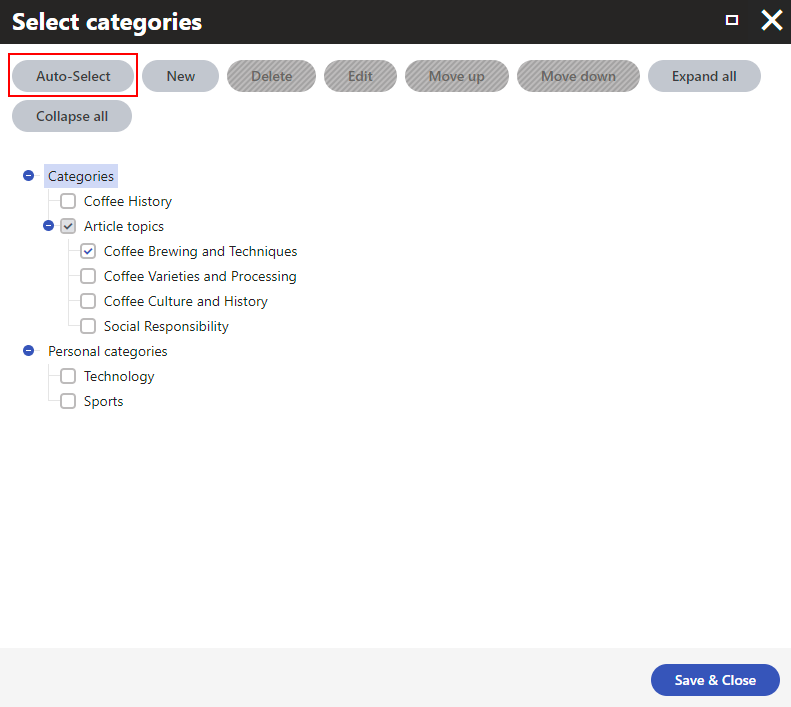
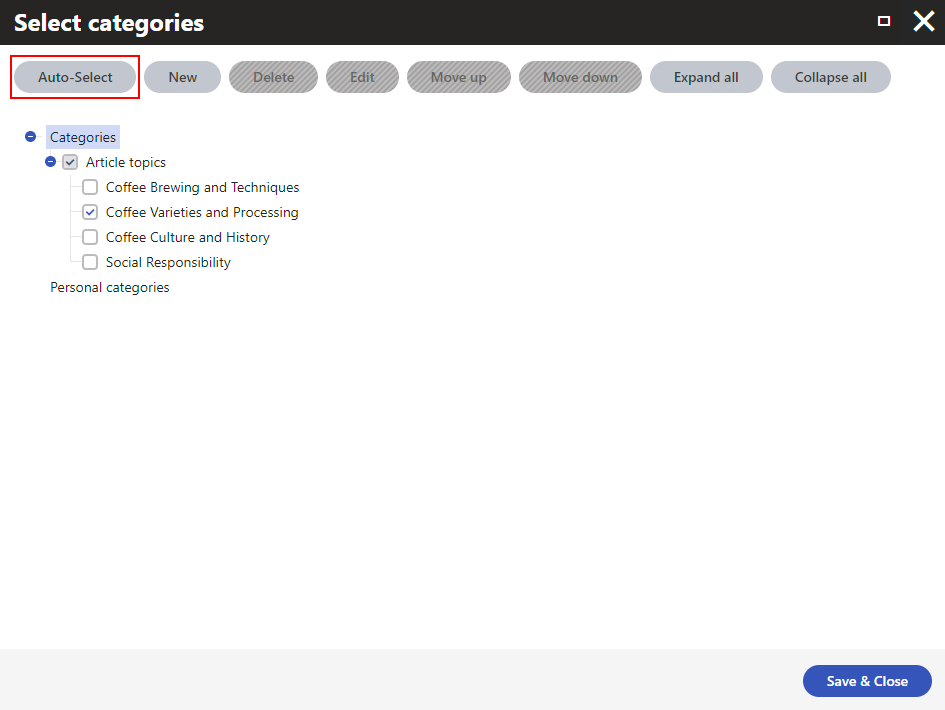
Changes addressing TW review.

Changed region(s): [[0.0, 0.0, 1.0, 0.5912], [0.8192, 0.9335, 1.0, 0.9958]]

diff --git a/README.md b/README.md
@@ -6,9 +6,9 @@ This custom module allows Xperience users to [automatically select](https://docs
 ## Installation
 
 1. Install the [Kentico.Xperience.OpenAI.Azure](https://www.nuget.org/packages/Kentico.Xperience.OpenAI.Azure) NuGet package in the administration project.
-2. Log into your [Azure portal](https://portal.azure.com/).
+2. Sign in to your [Azure portal](https://portal.azure.com/).
 3. Create and configure an [Azure OpenAI resource](https://learn.microsoft.com/en-us/azure/ai-services/openai/how-to/create-resource?pivots=web-portal).
-4. [Deploy a model](https://learn.microsoft.com/en-us/azure/ai-services/openai/how-to/create-resource?pivots=web-portal#deploy-a-model)
+4. [Deploy a model](https://learn.microsoft.com/en-us/azure/ai-services/openai/how-to/create-resource?pivots=web-portal#deploy-a-model).
 5. In Xperience, go to **Settings -> Content -> Azure OpenAI** and configure the settings:
     - General:
         - **Azure OpenAI API endpoint:** – value of the **Endpoint** field from **Resource Management -> Keys and Endpoints** of your Azure OpenAI resource in Azure portal.
@@ -17,15 +17,17 @@ This custom module allows Xperience users to [automatically select](https://docs
         - Select the **Enable content categorization** option.
         - **Deployment name** – the **Deployment name** you chose when deploying the model. Can be also found in **Azure OpenAI Studio -> Management -> Deployments**.
 
+    ![Azure OpenAI settings](images/azure_openai_settings.png)
+
 ## Automatic selection of categories
 
-After you [set up](#installation) the integration, next time you will be assigning a page into categories you can simply click the **Auto-Select** button and the best fitting categories based on the page's content will be automatically selected.
-
-![Auto-select categories](images/auto_select.png)
+After you [set up](#installation) the integration, next time you assign a page into categories you can simply click the **Auto-Select** button and the best fitting categories based on the page's content get automatically selected.
 
 **Important notes:**
-- The automatic selection overwrites your previously selected categories.
+- When you already have some categories selected, the automatic selection may not contain the originally selected ones. If this happens, you can manually add the desired categories on top of the automatic selection.
 - The page you are assigning into categories must have at least some data stored in fields with **Text** or **LongText** data types. That is, the automatic selection doesn't work for pages that are built entirely via Page builder.
+
+![Auto-select categories](images/auto_select.png)
 
 ## Contributing
 
